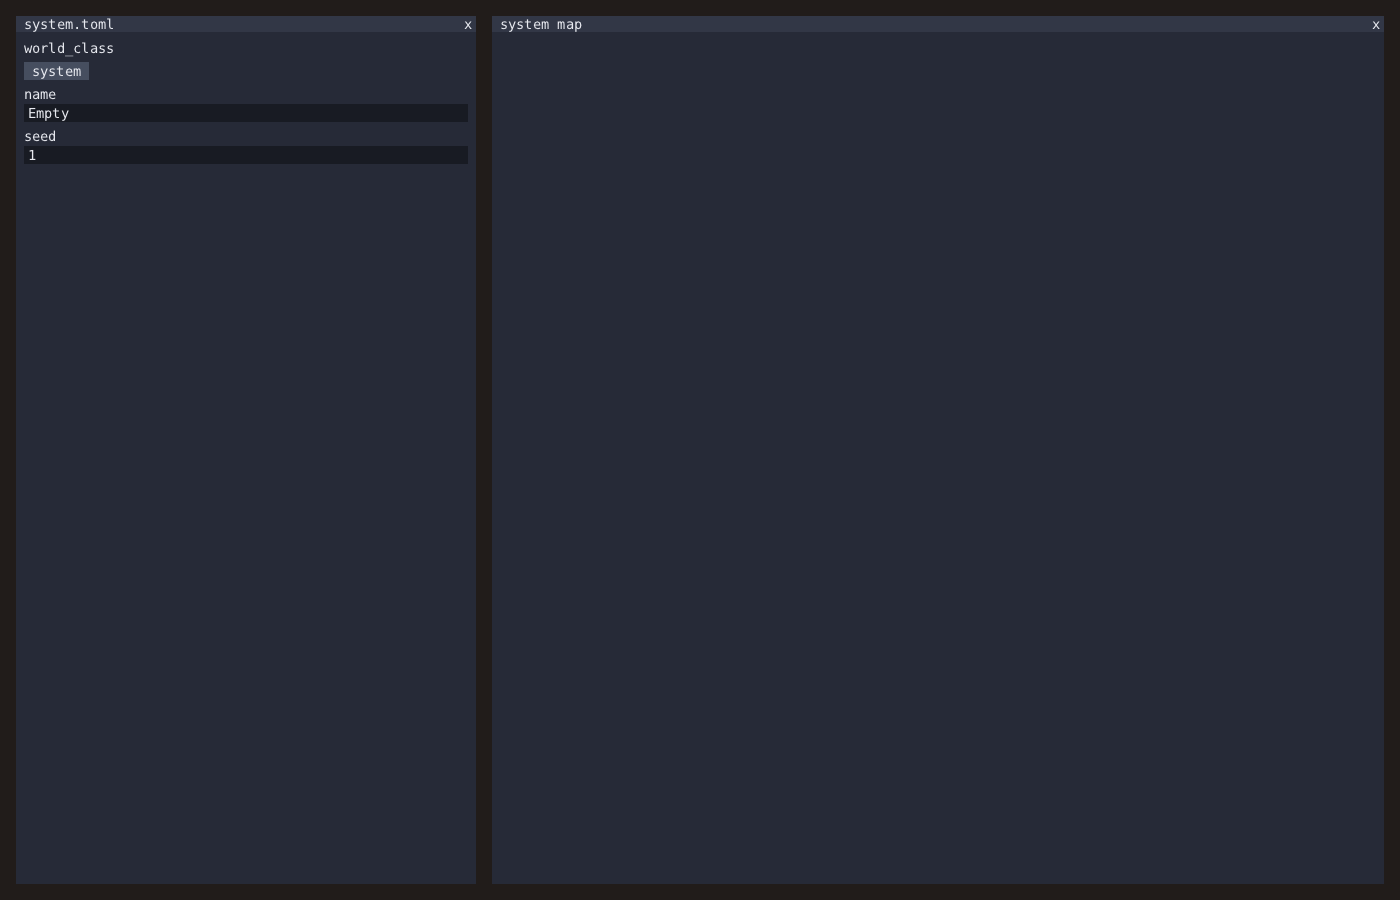
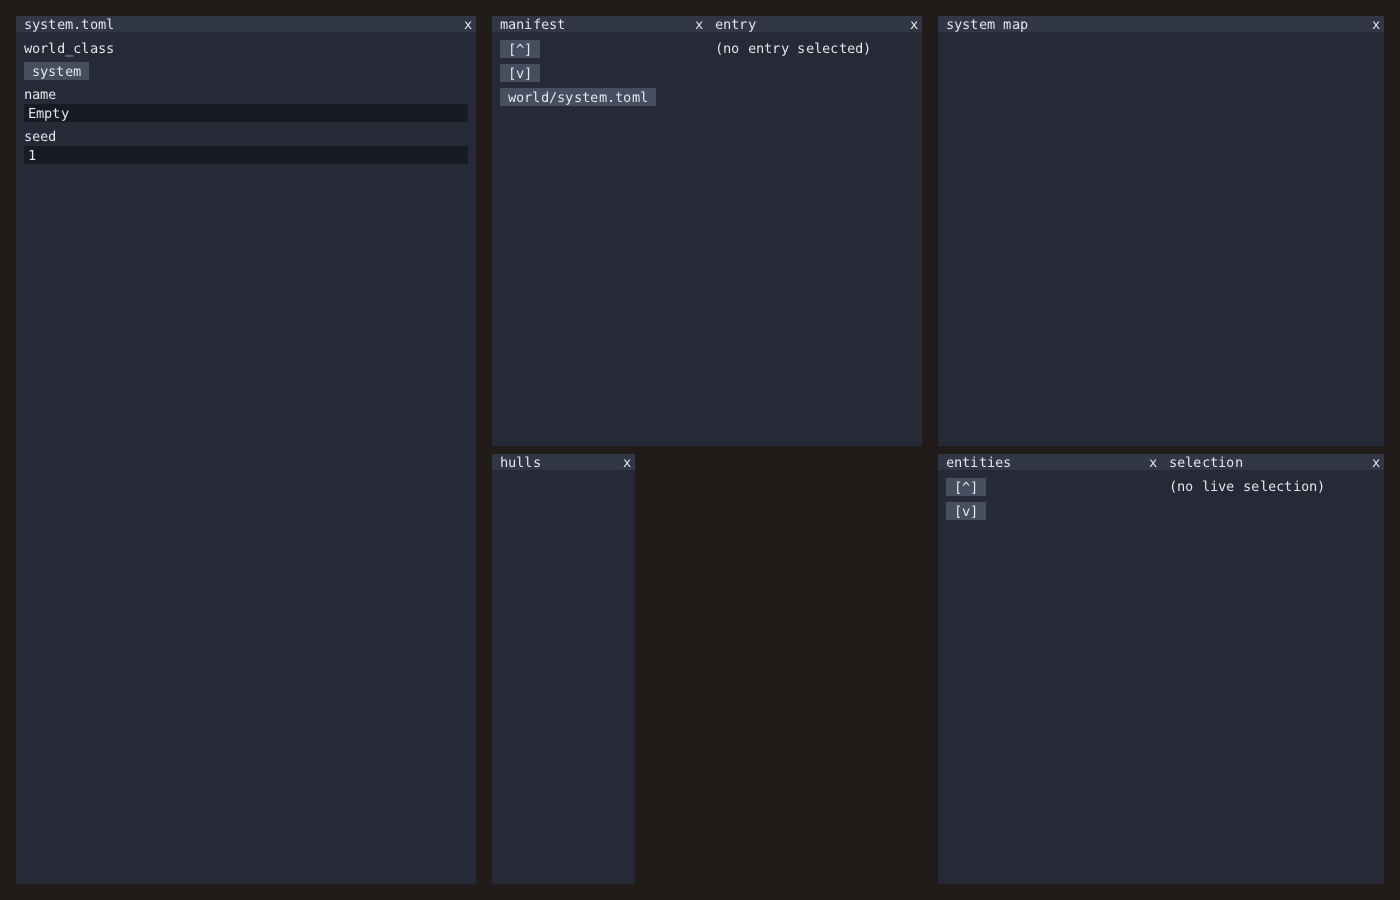
Editor kit EK.6 evidence pass — interlude DONE (2026-11-15)
checklist: EK.5 box (fb9707e) + EK.6 box filled, status DONE, all
three done-when bullets checked with evidence pointers.
Evidence: full ci_local gate GREEN 2026-11-15 (CI_EXIT=0, 452.61 s,
headless no display, ASan+UBSan, zero sanitizer lines); engine_tests
195 cases / 13,363,046 assertions all passed; xvfb_edit_run scripted
proofs (gate 1/1, EmptyX on disk, browser selection + handoff, tree
rect, ink 1,013,560 px, validation silent); evidence PNGs replaced by
the five-panel run. README: interlude paragraph + status row. notes:
EK.5 findings.

Changed region(s): [[0.3379, 0.0, 0.9829, 0.9956], [0.3379, 0.0, 0.4914, 0.1244], [0.5221, 0.0311, 0.6143, 0.0622]]

diff --git a/README.md b/README.md
@@ -30,6 +30,8 @@ Phase 7 (atmosphere, landing, contacts) **complete** (2026-11-12): the line betw
 
 Phase 8 (scale, warp, streaming) **complete** (2026-11-15) — the editor kit (decision #48) landed first: hull-def **forms with the shared unit grammar** (#42: bad unit strings refused on entry), a **def-forms panel** over a TOML source model whose write-back drives the watch-mode cooklet so a recook hot-swaps the cooked payload in the running engine (#16), a minimal **ECS registry** (slot+generation ids, no RTTI), a live **ECS/stats inspector** on a shared entity-selection service, a **manifest/asset browser**, and a **loadout editor** whose mount gates are the sim's own `Loadout::assemble` (bad candidate refused on entry with reason). The **terrain art-direction spike** (#17d) rendered the analytic sampler two ways and ended in user decision **#49: hybrid look** (biome palette cards + gentle cel banding over smooth sampler normals + sheen + haze). **World authoring** exists end-to-end on the cook side: a flat-row TOML schema for systems/planets/moons/stations — rails, wells, atmospheres, terrain generator + biome palettes, POIs/pads/stamps, markets + lanes, ownership/stance factions, nav graphs, station build plans, opening-job templates — cooked as **WRLD units** (cook format v6) through one codec shared with the future runtime (re-encode == encode byte-for-byte pinned), manifest dep edges from ref strings, and **cross-field/cross-file validation gates** (8.8): parent-chain closure, stamp-covers-POI, faction/market/lane/waypoint/edge resolution, and build-plan clamp-seam pairing with root-socket reservation — fixed gate order, deterministic first-error text. **Floating origin** (8.9) is sim-side state now: rebases fire only at exact ticks on a strict threshold rule, and 4.7 replay hash streams stay bit-identical with and without them; every GPU transform composes fp64→relative→f32, since world-absolute fp32 collapses at AU scale (16 km ulp, pinned). **Log-zoom depth** (8.10): one pass spans surface metres to AU separations — the off-axis matrix pairs with a sanctioned fragment-depth refinement (a log map cannot live in a `mat4`), reversed-Z near→1/far→0 on float depth, resolution constant per octave; a 2 m gap at 2^37 m z-orders correctly against a 1.5 m near edge in the same frame, both draw orders, pinned by strict goldens. **Real-scale slice** (8.11): a world authored at true scale — Earth-class planet, Mars-class at a real 1.52 AU, Moon-class moon and a low-orbit station inside the parent's well (wells still authored 10..100× body radius, #22a) with the full market/POI/build-plan graph — cooked as the fixture for the FTL tasks, its rails fp64-checked against hand-pinned values from an exact op-order port of the rail evaluator (bit-exact tidal lock, fp32's 16.4 km ulp at 1.52 AU pinned against the fp64 path). **FTL warp** (8.12): a drive whose spool ramp is an anchored analytic line in tick space (bit-exact arrival at hand-pinned ticks; an aborted ramp lands back at 1.0 at exactly the symmetric tick), and whose multiplier folds the **same** fixed-tick integrator — position advances at `vel × mult`, `vel` stays physical sublight momentum, one space, no hyperspace layer; the multiplier rides the replay command log, so warp legs replay and scrub from recorded commands alone (1.0× streams are bit-identical to pre-FTL, pinned memcmp-equal over a 20,000-tick randomized flight); propellant drains per warp-second through the reservoir as a pure per-tick function — a dead drive stops draining on its tick. **Safe bubbles** (8.13, decision #50): bodies author a warp hard wall outside their well edge — warp cannot initiate inside one (d == r is *not* interior: the door is open at the surface), and any warp tick whose step would touch or cross the edge resolves exactly there — position truncates to the TOI of the pinned quadratic and is **pinned bit-identically every tick** while the multiplier exceeds 1 as the forced spool-down runs; momentum carries inward only sublight, outward crossings resolve symmetrically; a deterministic surface band (r²·2⁻⁴⁰) classifies the 1-ulp residue left by truncation so the wall never re-pins the ship at the far-side exit root; impact damage values are game-side data fired once at the first contact tick. **Warp-leg scenario** (8.14, done-when (a)): Thalassa→Ferrous end-to-end at the real 1.52 AU separation on the shipped machinery — every pin hand-derived in an fp64 op-for-op port before the C++ test existed (engage 17313 / crossing 31391 / mult-landing 32324 at fixed ticks; propellant against a hand-closed reservoir form; one crossing, one damage fire; replay interval hash bit-identical between port and engine; blind engage from deep inside a bubble ends pinned at the wall with zero propellant spent; the ghost preview walks the whole leg bit-identically at divisor 1 and holds the same chord at divisor 2). The mutation ladder over the leg's own machinery kills 6/6 — the surface band and the dominance-band default survive the leg (its geometry misses their windows) and are pinned where they bite: opposite classifications at 350 pm vs 700 pm off the wall, and exact strong-well suppression at a 0.583 well ratio. **Time compression + physics LOD** (8.15, decision #53): world time can run at different integer multiples per body — a far body integrates once every m ticks (m up to 1000), each coarse step advancing sim time by exactly the elapsed tick gap via the sanctioned variable-dt integrator, never a free-float dt and never skipped sim time. Bands are observer-relative distances re-evaluated every tick through the hysteresis-free threshold-band contract (first match wins, no match = full rate); a coarse body samples gravity, assists, and warp once at the interval start and rides the same recorded-command + safe-bubble-wall spine as replay — one shared wall helper, so live, compressed, and scrubbed runs agree bit-for-bit. The lattice is pure integer state derived in closed form from the RECORDED divisor schedule, which is what makes compressed captures scrubbable: the scrubber rebuilds each body's phase from the schedule and replays a 1000×-compressed capture bit-for-bit at every tick, while the command log stays tick-dense. Divisor 1 through the LOD spine is bit-for-bit the reference spine (no second physics implementation can hide), and the full assisted Thalassa→Ferrous leg under a 1e9 m / 1000× observer band arrives within bounded error of the 1× reference — the far leg's 13,999 ticks covered by 14 coarse steps (17,105 total physics steps vs 29,901 at full rate), the retained position never inside a bubble wall while warp is engaged, the reservoir diverging only by the flow over that bounded offset. 8.16 puts the well machinery on that lattice: a scripted moon landing inside a planet's well at 1000× keeps down = moon at every tick of descent and pad-carried rest (blend bit-exact, eight coarse steps total), and a distant coarse ship holds home = planet while the moon swings through a 3000 m in-reach flyby overhead. **Terrain streaming + scatter** (8.17): planets stream as quadtree chunks over the cube-face chart with morphing skirts; every display mesh is generated on demand from the same analytic sampler the sim queries (zero baked meshes), with shared-edge knot heights keyed to the edge lattice so neighbours agree bit-exactly at any LOD pair and seams never crack. Biome surface bands are def data, and the scatter field is deterministic from seed + authored density tables, clamped inside authored bounds. **Land + zoom render proof** (8.18, done-when (c)): four fixed-pose descent goldens (20 km / 12 km / 2.5 km / 1200 km) byte-exact surfaceless, zero coverage holes, constant-w depth-mirror pins (<1e-4) for the 8.10 Z contract, and a pop proof that binary-searches the first chunk-lattice flip along altitude and pins the frames across 32 swaps **bit-identical** — morph skirts absorb the swap entirely (0 % frame delta). A `tools/demo --mode descent` segment (Xvfb evidence, outside ctest) flies the same streaming path 20 km→1.5 km for human eyes. **Authoring gizmos** (8.19): direct manipulation over the live cooked real-scale world rides the write-back path — pick a gizmo handle (bodies, stations, surface pads, waypoints; nearest handle wins pixel ties), a drag rewrites only the touched TOML rows of the source def (unit-suffix literals, comments preserved), and the edit is gate-checked by the real incremental cooker + cross-file validation before anything live moves — a refused drop reverts the source bit-exactly, and root-anchor drags are refused outright. A Tier-2 proof pins that the CPU pick projection equals the GPU placement and that nearer handles win overlaps draw-order-independently, byte-identical captures. **Schematic authoring** (8.20, decision #43 mode B): the same world def, projected as a 2D system map on the inspector panel — stations, waypoints and market nodes at their analytic rail positions (selected node centers the view, co-located nodes ring deterministically), typed nav-graph edges plus trade lanes with commodity/flow side fields, spawn tables and faction stances as readout rows (spawn rows themselves grew the system schema and its validation gates: `at` must name a node, faction must resolve). Click-select rides the shared selection service; waypoint-node drags inverse-project back to the def and rewrite the rail `at` triple; new edges and flow edits are append/one-line TOML deltas that must pass the same incremental-cooker gate — a dangling wire is refused and the source stays bit-exact. A new `ui_context::line` stroke primitive draws the edges. **Station growth** (8.21, done-when (e)): authored build plans land at runtime — a prefab module's clamp tick is a pure function of the world seed and def data (FNV-mixed lane congestion, no stored RNG, so replay recomputes it from scratch), the module clamps onto a free station socket through the same capture/dock clamp machinery as landing, exactly on that scheduled tick; the station's loadout grows and its aggregate stats update on the landing tick with a hand-computed delta, and the per-tick replay stamp covers the stats outcome — bit-identical across identical runs, and a no-landing canary diverges exactly at the clamp tick. 192 test cases / 13,362,976 assertions.
 
+**Editor kit interlude** (decision #54, between Phase 8 and 9) **complete**: `tools/edit/ve_edit` — a live editor window over an **empty cooked world** (one system def, zero entities, no art beyond the single cooked glyph atlas). It carries all five authoring panels side by side: schema-driven **def forms** for `system.toml` (a new `kWorld_system_def_schema` mirrors the cooklet's system parser #43), the mode-B **system map**, the **asset browser** (manifest rows assembled host-side, live stale badges), the **loadout editor**, and the **ECS/stats inspector tree** — every write still round-trips the real incremental-cook gate. The UI GPU pass graduated from the test harness into `gfx::ui_renderer`, GLFW input arrives through a platform `ui_io` adapter, and the tool self-attests under Xvfb+lavapipe (`tools/dev/xvfb_edit_run.sh`, never a ctest case). Engine-side: `world_empty` and `def_schema_world` pin the empty-world cook path and the schema/parser lock-step.
+
 | Phase | Area | Status |
 |---|---|---|
 | 0 | Toolchain & skeleton | **complete** |
@@ -41,6 +43,7 @@ Phase 8 (scale, warp, streaming) **complete** (2026-11-15) — the editor kit (d
 | 6 | RPG stats & modifier framework | **complete** |
 | 7 | Atmosphere, landing, contacts | **complete** |
 | 8 | Time compression & streaming | **complete** |
+| — | Editor kit (interlude, #54) | **complete** |
 | 9 | Combat: weapons, shields, damage | not started |
 | 10 | OpenXR bring-up (mock-first) | not started |
 | 11 | Vertical slice | not started |

diff --git a/docs/tooling-editorkit/checklist.md b/docs/tooling-editorkit/checklist.md
@@ -1,5 +1,5 @@
 # Editor Kit — ve_edit (interlude, decision #54)
-Status: in progress
+Status: DONE (2026-11-15)
 
 Not a PLAN phase: user-commissioned tooling interlude between Phase 8 and Phase 9. Same process spine: one task = one commit, tests named up front, gate before DONE. No new dependencies (#54 uses GLFW/Volk/stb only). No display-dependent ctest tests — ve_edit itself is evidenced by the self-attesting-exit-code + Xvfb driver pattern (2.9), never added to ci_local.
 
@@ -9,10 +9,10 @@ Not a PLAN phase: user-commissioned tooling interlude between Phase 8 and Phase 
 - [x] EK.3 Empty-world bootstrap — minimal system def TOML (name + seed, zero bodies/stations/lanes/rows) as a fixture src tree; opens through the real cook path — test: `world_empty` (cooks + wrldvalidate green, world_load decodes zero rows, schematic_nodes(0) empty, re-cook hash stable) — commit: 49d1be8 (world_empty 1c/21a GREEN; production code untouched — the empty world needed no gate changes)
 - [x] EK.4.0 (inserted) World system-def schema — `kWorld_system_def_schema` in game/def_schema.h mirroring tools/cook/src/worlddef.cpp's system-class parse EXACTLY (scalars world_class/name/seed/members; rows faction/market/production/lane/waypoint/edge/job/job_step/spawn; enum sets world_class, nav_kind). Needed because EK.4 forms must edit system.toml schema-driven, and no world schema existed (#43 lock-step rule: schema mirrors parser) — test: `def_schema_world` (forms parse of the empty fixture + a one-row-of-every-kind system; forms-edited text cooks green through the real gate; decode shows the edit) — commit: 4c6ac19 (def_schema_world 1c/28a GREEN; forms-edited name re-cooked through the real gate)
 - [x] EK.4 ve_edit host skeleton — new `tools/edit/ve_edit`: GLFW window + platform presenter frame loop (acquire→record→present), font ttf cooked on demand via cook_incremental + FONT0 load, flat clear-color background (no world rendering), UI pass via EK.1 renderer, EK.2 adapter feeding `gfx::ui_io`; wire **schematic panel + forms** against an `author_world` opened on the EK.3 empty tree — evidence: self-attesting exit codes + `tools/dev/xvfb_edit_run.sh` (Xvfb+lavapipe, outside ctest) — commit: 979c243 (xvfb_edit_run GREEN: scripted forms edit Empty->EmptyX round-tripped the REAL cook gate + on-disk assert, ink>0, last!=f0, validation silent; evidence PNGs reviewed + independently decoded; found: mode-B needs host-driven render_schematic+click_schematic, not render())
-- [ ] EK.5 Wire the remaining panels into ve_edit — inspector (8.2), asset browser (8.3), loadout editor (8.4): snapshots from author_world/manifest, side-by-side windows, def-selection stays panel state (8.3 doctrine) — evidence: same driver script exit code + evidence PNG cross-checked by independent decode — commit: —
-- [ ] EK.6 Evidence pass — notes.md findings, README status line, checklist reconcile, full ci_local gate — commit: —
+- [x] EK.5 Wire the remaining panels into ve_edit — inspector (8.2), asset browser (8.3), loadout editor (8.4): snapshots from author_world/manifest, side-by-side windows, def-selection stays panel state (8.3 doctrine) — evidence: same driver script exit code + evidence PNG cross-checked by independent decode — commit: — — commit: fb9707e (scripted browser click selects world/system.toml + handoff asserted; tree scroll-rect proof; ink 1,013,560 px; PNGs vision-reviewed [all five panels] + independently decoded 1400x900, 5,180 px f0-vs-last, 893 colors)
+- [x] EK.6 Evidence pass — notes.md findings, README status line, checklist reconcile, full ci_local gate — commit: this docs commit (evidence: gate run GREEN 2026-11-15 on fb9707e, docs-only tree delta after, CI_EXIT=0 452.61 s headless no display ASan+UBSan, 0 sanitizer lines; engine_tests 195 cases / 13,363,046 assertions all passed)
 
 ## Done-when (all checked = interlude DONE)
-- [ ] (a) ve_edit opens a window showing all five live panels over an empty world; the ONLY asset is the cooked font — EK.4/EK.5
-- [ ] (b) every panel edit round-trips through the real incremental-cooker gates; refusals revert bit-exact (host adds no in-memory-only mutation path) — EK.4/EK.5
-- [ ] (c) ui render pass lives in gfx/, Tier-2-tested in ctest; ci_local green headless with the interlude merged — EK.1/EK.6
+- [x] (a) ve_edit opens a window showing all five live panels over an empty world; the ONLY asset is the cooked font — EK.4/EK.5 — proven: evidence PNGs show system.toml forms + manifest/entry + system map + hulls + entities/selection frames, font-only asset (docs/tooling-editorkit/evidence/)
+- [x] (b) every panel edit round-trips through the real incremental-cooker gates; refusals revert bit-exact (host adds no in-memory-only mutation path) — EK.4/EK.5 — proven: scripted name edit gate 1/1 accepted + on-disk assert (xvfb_edit_run GREEN); host gate reverts bit-exactly on refusal (main.cpp gate lambda); row/drag writes ride the same gate per 8.19/8.20 tests
+- [x] (c) ui render pass lives in gfx/, Tier-2-tested in ctest; ci_local green headless with the interlude merged — EK.1/EK.6 — gfx::ui_renderer (d45f0b9) in ctest Tier 2; final interlude gate CI_EXIT=0 452.61 s

diff --git a/docs/tooling-editorkit/notes.md b/docs/tooling-editorkit/notes.md
@@ -84,3 +84,22 @@
   layer manifest present), `-screen 0 1600x1000x24`, evidence PNGs into
   docs/tooling-editorkit/evidence/. GLFW init is the only display-dependent
   layer; everything under it stays surfaceless-capable. Never in ci_local.
+
+## EK.5 — remaining panels wired (fb9707e)
+- **One inspector_panel cannot show both sides at once:** the panel keeps a
+  single hit-rect map and render() clears it every frame — the 8.2 tree side
+  and the 8.20 schematic side get separate panel instances over the SAME
+  selection_service (shared state lives in the service, view state in the
+  panel, per 8.2 doctrine).
+- **Browser rows are host-assembled** (8.3 contract): read_manifest on the
+  work tree's manifest.bin, per-unit file_size for cooked bytes, and stale =
+  core::cooked::sha256(live src) != entry.source_sha. Rebuilt every frame —
+  a few entries, dev tool, badges stay honest against disk.
+- **Loadout/inspector on an empty world:** set_hulls({}) and an empty
+  ecs_world still draw real windows (frames, scroll buttons, "(no live
+  selection)") — the panels' empty states are first-class, so EK.5 needed no
+  fake data.
+- **Handoff spine:** browser selection for a def id the forms is NOT showing
+  swaps the forms doc and re-attaches the host gate lambda; same-id
+  selection no-ops. The scripted run clicks the real "mrow:world/system.toml"
+  rect from the previous frame and asserts selected_id + handoff.
